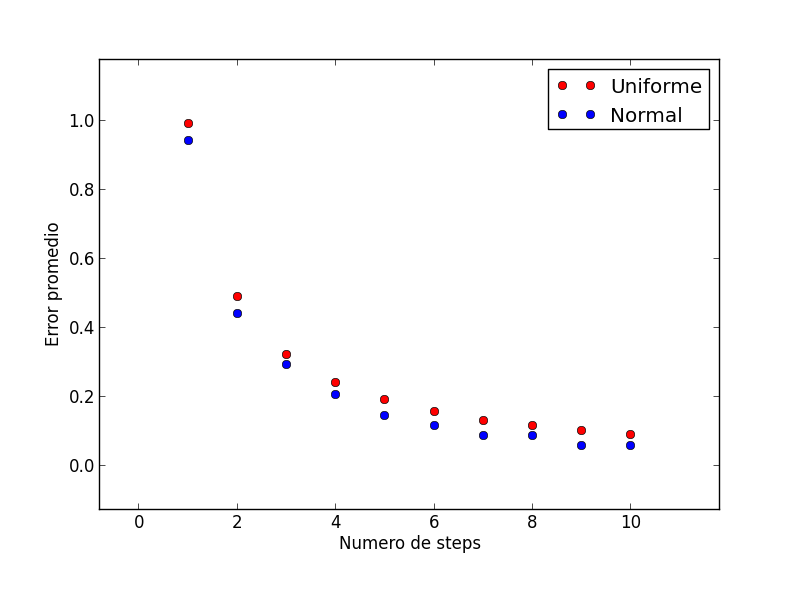
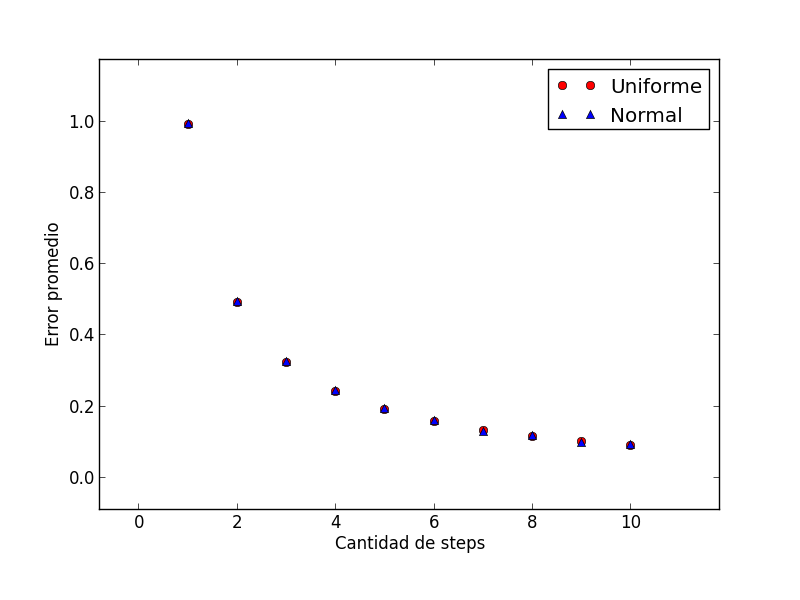
Ejb2 step con varias columnas.

diff --git a/tp2/src/ejb2_step_parameter_variation.py b/tp2/src/ejb2_step_parameter_variation.py
@@ -12,23 +12,26 @@ db_name = 'db.datos_normal_uniforme'
 # ------------------- UNIFORME ----------------------
 table = 'uniforme'
 columns = []
+error_avgs_col = []
 error_avgs = []
-for n in range(1, 11):
-  # Uniforme
-  column = 'd1'
-  sEstimator = DistributionSteps(db_name, table, column, parameter=n)
-  rEstimator = RealHistogram(db_name, table, column, parameter=n)
+for par in range(1, 11):
+  for n in range(1, 11):
+    column = 'd' + str(n)
+    sEstimator = DistributionSteps(db_name, table, column, parameter=par)
+    rEstimator = RealHistogram(db_name, table, column, parameter=par)
+    error_avgs_col = []
 
-  errors = []
-  for x in range(rEstimator.min_value, rEstimator.max_value + 1):
-    se = sEstimator.estimate_equal(x)
-    re = rEstimator.estimate_equal(x)
-    errors.append(abs(se - re))
+    errors = []
+    for x in range(rEstimator.min_value, rEstimator.max_value + 1):
+      se = sEstimator.estimate_equal(x)
+      re = rEstimator.estimate_equal(x)
+      errors.append(abs(se - re))
 
-  avg_classic_diff = sum(errors) / len(errors)
+    avg_classic_diff = sum(errors) / len(errors)
+    error_avgs_col.append(avg_classic_diff)
 
-  columns.append(n)
-  error_avgs.append(avg_classic_diff)
+  columns.append(par)
+  error_avgs.append(sum(error_avgs_col) / float(len(error_avgs_col)))
 
 
 import matplotlib.pyplot as plt
@@ -40,35 +43,38 @@ a = plt.plot(columns, error_avgs, 'ro')
 # ------------------- NORMAL ----------------------
 table = 'normal'
 columns = []
+error_avgs_col = []
 error_avgs = []
-for n in range(1, 11):
-  # Uniforme
-  column = 'd1'
-  sEstimator = ClassicHistogram(db_name, table, column, parameter=n)
-  rEstimator = RealHistogram(db_name, table, column, parameter=n)
+for par in range(1, 11):
+  for n in range(1, 11):
+    column = 'd' + str(n)
+    sEstimator = DistributionSteps(db_name, table, column, parameter=par)
+    rEstimator = RealHistogram(db_name, table, column, parameter=par)
+    error_avgs_col = []
 
-  errors = []
-  for x in range(rEstimator.min_value, rEstimator.max_value + 1):
-    se = sEstimator.estimate_equal(x)
-    re = rEstimator.estimate_equal(x)
-    errors.append(abs(se - re))
+    errors = []
+    for x in range(rEstimator.min_value, rEstimator.max_value + 1):
+      se = sEstimator.estimate_equal(x)
+      re = rEstimator.estimate_equal(x)
+      errors.append(abs(se - re))
 
-  avg_classic_diff = sum(errors) / len(errors)
+    avg_classic_diff = sum(errors) / len(errors)
+    error_avgs_col.append(avg_classic_diff)
 
-  columns.append(n)
-  error_avgs.append(avg_classic_diff)
+  columns.append(par)
+  error_avgs.append(sum(error_avgs_col) / float(len(error_avgs_col)))
 
 
 import matplotlib.pyplot as plt
 
-b = plt.plot(columns, error_avgs, 'bo')
+b = plt.plot(columns, error_avgs, 'b^')
 # Pad margins so that markers don't get clipped by the axes
 plt.margins(0.2)
 # Tweak spacing to prevent clipping of tick-labels
 plt.subplots_adjust(bottom=0.15)
 plt.legend( (a[0], b[0]), ('Uniforme', 'Normal') )
 plt.ylabel('Error promedio')
-plt.xlabel('Numero de steps')
+plt.xlabel('Cantidad de steps')
 plt.show()
 
 # Aca por un error el en codigo al principio daban igual con todos los parameters.. (podriamos chamuyar algo en el informe
